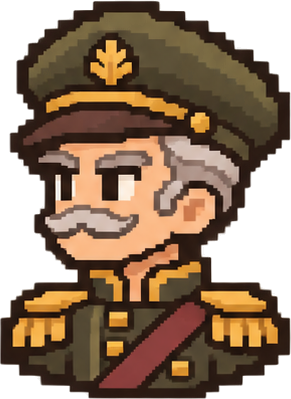
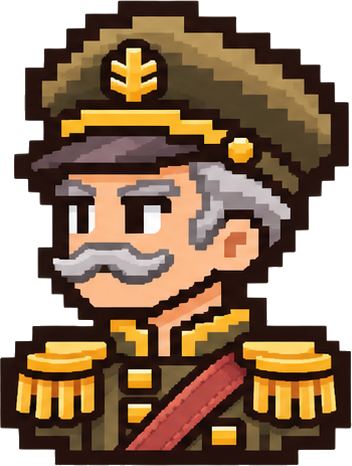
v430: เปลี่ยนรูปตัวละครแคมเปญเป็นชุดใหม่ (ตัวเต็ม 9 + ครึ่งตัว 8) สัดส่วนเท่ากันทั้งชุด
- แทนรูปตัวเต็ม/ครึ่งตัวของเก็ตต์ ชาวนา ทหาร คนตัดไม้ ซาร่า เรย์ ลีน่า บรอนซ์ แวนซ์
- แวนซ์ไฟล์ใหม่หันขวาอยู่แล้ว จึงเอาออกจากรายการกลับด้านตัวเต็ม
- เพิ่ม ?v=430 กันแคชรูปเก่า

Claude-Session: https://claude.ai/code/session_0198Ndb9jfEwyNYhWziiRvCu

diff --git a/assets/story/chapter-1/story.css b/assets/story/chapter-1/story.css
@@ -126,9 +126,10 @@
 #cs378.chapter-one-art .aw .actor.woodcutter, #cs378.chapter-one-art .aw .actor.sara, #cs378.chapter-one-art .aw .actor.ray,
 #cs378.chapter-one-art .aw .actor.leena, #cs378.chapter-one-art .aw .actor.bronze, #cs378.chapter-one-art .aw .actor.vance { height: 112%; }
 
-/* v427: ทิศหันให้ตรงกับตำแหน่งยืน/ตำแหน่งในกล่องคำพูด (วัดจากตาในไฟล์จริง: ทุกตัวหันขวา ยกเว้นทหาร/บรอนซ์/แวนซ์ที่ต้นฉบับหันซ้าย)
+/* v430: ภาพตัวละครชุดใหม่ แวนซ์ในไฟล์หันขวาอยู่แล้ว จึงไม่กลับด้านตัวเต็ม (ครึ่งตัวยังกลับ)
+   v427: ทิศหันให้ตรงกับตำแหน่งยืน/ตำแหน่งในกล่องคำพูด (วัดจากตาในไฟล์จริง: ทุกตัวหันขวา ยกเว้นทหาร/บรอนซ์/แวนซ์ที่ต้นฉบับหันซ้าย)
    - ตัวเต็ม: เรียงจากซ้าย รถ · ทหาร · หัวหน้า · ชาวนา · คนตัดไม้ → ทหารและหัวหน้าหันขวา (เข้าหาชาวบ้าน) · ชาวนา/คนตัดไม้ต้องหันซ้าย (หาหัวหน้า)
    - รูปครึ่งตัว: รูปอยู่ซ้ายกล่อง → หันขวาเข้าหาข้อความ · รูปอยู่ขวากล่อง (ชาวนา/คนตัดไม้) → หันซ้ายเข้าหาข้อความ */
-#cs378.chapter-one-art .aw .actor.soldier, #cs378.chapter-one-art .aw .actor.bronze, #cs378.chapter-one-art .aw .actor.vance,
+#cs378.chapter-one-art .aw .actor.soldier, #cs378.chapter-one-art .aw .actor.bronze,
 #cs378.chapter-one-art .aw .actor.farmer, #cs378.chapter-one-art .aw .actor.woodcutter { transform: scaleX(-1); }
 #cs378.chapter-one-art .dlg.side-r .dialogue-portrait, #cs378.chapter-one-art .dlg.flip-p .dialogue-portrait { transform: scaleX(-1); }

diff --git a/assets/story/chapter-1/story.js b/assets/story/chapter-1/story.js
@@ -36,7 +36,7 @@
       img.className = 'actor ' + name;
       img.alt = '';
       img.draggable = false;
-      img.src = cfg.sprites[name] || base + name + '.png';
+      img.src = (cfg.sprites[name] || base + name + '.png') + '?v=430'; // v430: กันแคชรูปเก่า
       const wrap = document.createElement('span'); // v396: ห่อรูป เพื่อวางเงาวงรีใต้เท้า (ไม่พึ่ง drop-shadow ของเบราว์เซอร์)
       wrap.className = 'aw ' + name;
       wrap.appendChild(img);
@@ -114,7 +114,7 @@
         dlg.classList.toggle('no-plate', step.k === 'N' || step.k === 'G');
         dlg.classList.toggle('side-r', name === 'farmer' || name === 'woodcutter'); // ชาวนาพูด: รูปหน้า+ป้ายชื่ออยู่ขวา
         dlg.classList.toggle('flip-p', name === 'bronze' || name === 'vance'); // v427: รูปครึ่งตัวที่ต้นฉบับหันซ้าย → กลับด้านให้หันเข้าหาข้อความ
-        if (name) portrait.src = cfg.portraits[name] || base + 'portrait-' + name + '.png';
+        if (name) portrait.src = (cfg.portraits[name] || base + 'portrait-' + name + '.png') + '?v=430';
         Object.entries(actors).forEach(([key, img]) => img.classList.toggle('speaking', key === name));
       }
     };
